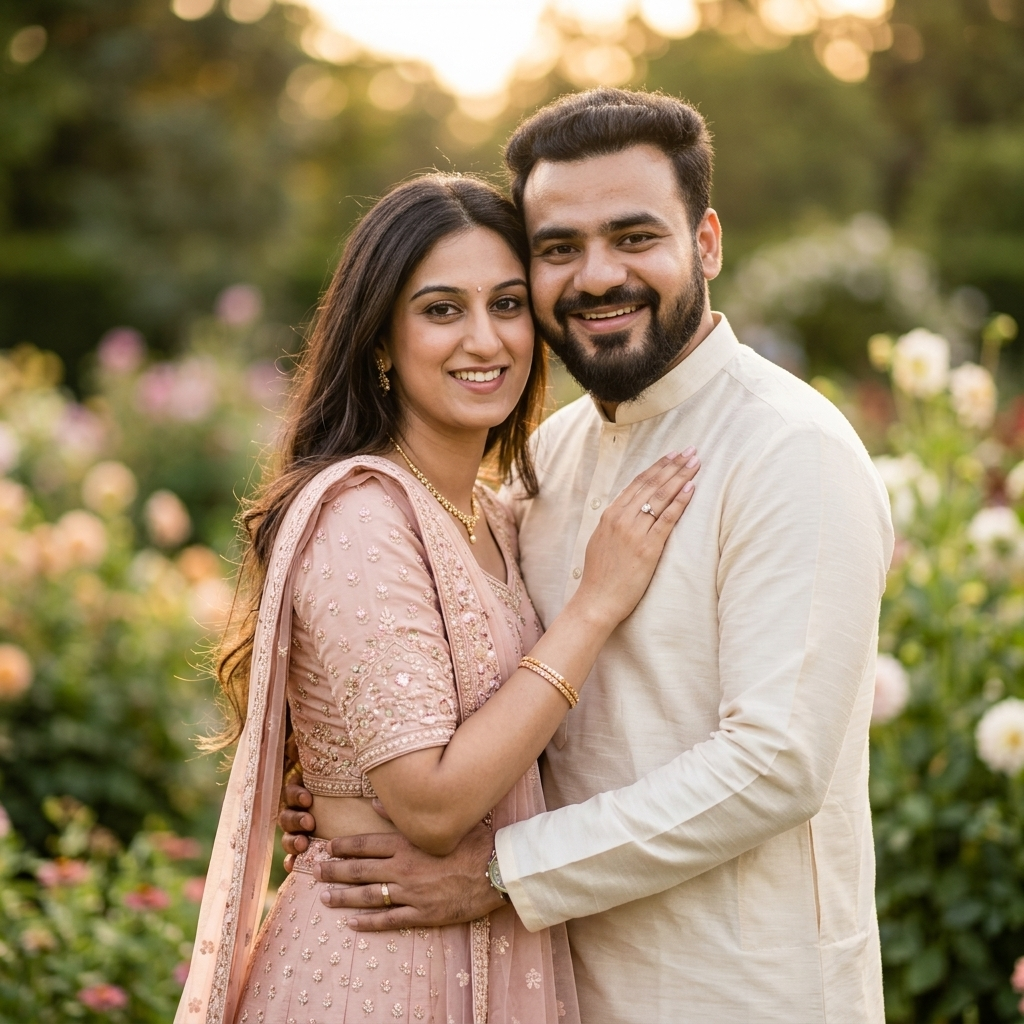
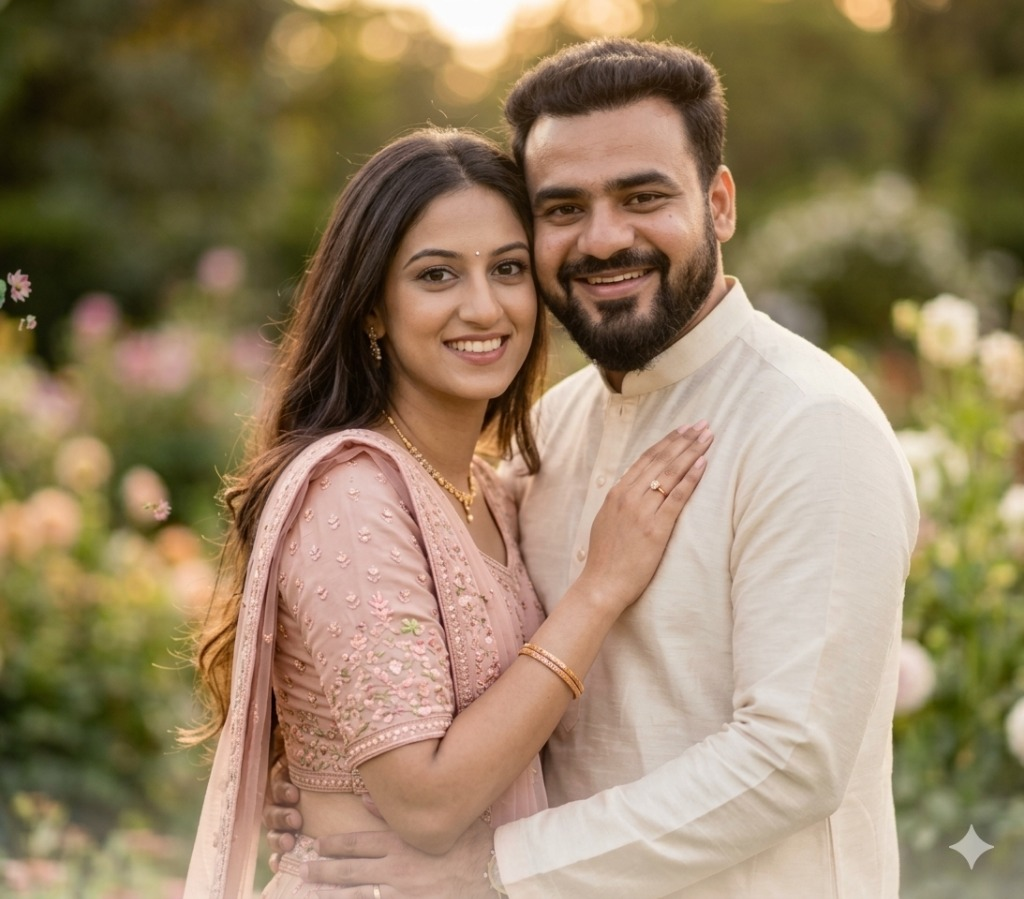
feat: update couple portrait, remove highlighted text from cover, and enhance scroll option

diff --git a/src/components/GateOpening.tsx b/src/components/GateOpening.tsx
@@ -1,7 +1,5 @@
 import { motion } from 'framer-motion';
 import { GaneshaBadge } from './GaneshaBadge';
-import { weddingData } from '../data/weddingData';
-
 const EASE_GATE = [0.83, 0, 0.17, 1] as const;
 
 interface GateOpeningProps {
@@ -10,7 +8,6 @@ interface GateOpeningProps {
 }
 
 export function GateOpening({ opened, onOpen }: GateOpeningProps) {
-  const { couple, invite, event } = weddingData;
 
   return (
     <motion.div
@@ -72,16 +69,7 @@ export function GateOpening({ opened, onOpen }: GateOpeningProps) {
           </p>
         </motion.div>
 
-        <motion.p
-          initial={{ opacity: 0, y: 12 }}
-          animate={{ opacity: 1, y: 0 }}
-          transition={{ duration: 1, delay: 0.3 }}
-          className="mt-7 text-[0.62rem] tracking-[0.45em] text-gold uppercase"
-        >
-          {invite.kicker}
-        </motion.p>
-
-        <div className="relative mt-6 flex h-40 w-40 items-center justify-center">
+        <div className="relative mt-7 sm:mt-9 flex h-40 w-40 items-center justify-center">
           <motion.span
             animate={{ rotate: 360 }}
             transition={{ duration: 46, repeat: Infinity, ease: 'linear' }}
@@ -114,32 +102,14 @@ export function GateOpening({ opened, onOpen }: GateOpeningProps) {
           </motion.div>
         </div>
 
-        <motion.h2
-          initial={{ opacity: 0, y: 16, letterSpacing: '0.5em' }}
-          animate={{ opacity: 1, y: 0, letterSpacing: '0.22em' }}
-          transition={{ duration: 1.5, delay: 0.6, ease: EASE_GATE }}
-          className="mt-9 text-lg font-light text-parchment uppercase sm:text-xl"
-        >
-          {couple.brideShort} &amp; {couple.groomShort}
-        </motion.h2>
-
-        <motion.p
-          initial={{ opacity: 0 }}
-          animate={{ opacity: 1 }}
-          transition={{ duration: 1, delay: 0.9 }}
-          className="mt-3 font-display text-base tracking-[0.3em] text-gold"
-        >
-          {event.dateLabel}
-        </motion.p>
-
         <motion.button
           type="button"
           onClick={onOpen}
           initial={{ opacity: 0, y: 14 }}
           animate={{ opacity: 1, y: 0 }}
-          transition={{ duration: 1, delay: 1.2 }}
+          transition={{ duration: 1, delay: 0.8 }}
           whileTap={{ scale: 0.96 }}
-          className="group relative mt-12 cursor-pointer overflow-hidden rounded-full border border-gold/70 px-9 py-3.5 text-[0.62rem] tracking-[0.35em] text-parchment uppercase transition-colors hover:bg-gold/15"
+          className="group relative mt-10 sm:mt-12 cursor-pointer overflow-hidden rounded-full border border-gold/70 px-9 py-3.5 text-[0.62rem] tracking-[0.35em] text-parchment uppercase transition-colors hover:bg-gold/15"
         >
           <motion.span
             animate={{ x: ['-120%', '120%'] }}

diff --git a/src/components/CountdownSection.tsx b/src/components/CountdownSection.tsx
@@ -44,23 +44,25 @@ export function CountdownSection() {
   const { event } = weddingData;
 
   return (
-    <section className="relative overflow-hidden bg-gradient-to-b from-royal-deep via-royal to-royal-deep px-5 py-20">
-      <div aria-hidden="true" className="jaali absolute inset-0 opacity-[0.12]" />
+    <section id="countdown" className="relative overflow-hidden bg-gradient-to-b from-mist to-mist-deep px-5 py-16">
+      <RevealOnScroll className="mx-auto max-w-md text-center">
+        <h2 className="font-display text-3xl tracking-[0.14em] text-royal uppercase">
+          Counting Down
+        </h2>
 
-      <RevealOnScroll className="relative mx-auto max-w-lg text-center">
-        <p className="text-[0.65rem] tracking-[0.4em] text-gold-soft uppercase">
-          {timeLeft?.done ? 'Today is the day' : 'Counting down to the engagement'}
+        <div className="gold-rule mx-auto mt-4 w-24" />
+
+        <p className="mt-4 font-display text-lg italic text-ink/70">
+          {timeLeft?.done ? 'Today is the special day!' : 'Until our special day'}
         </p>
-
-        <div className="gold-rule mx-auto mt-5 w-32" />
 
         <div className="mt-8 grid grid-cols-4 gap-2 sm:gap-3">
           {COUNTDOWN_ITEMS.map(({ key, label }) => (
             <div
               key={key}
-              className="relative overflow-hidden rounded-t-[2.2rem] border border-gold/60 bg-royal-deep/70 px-1 py-5 shadow-[0_10px_30px_-18px_black] backdrop-blur-[1px]"
+              className="relative overflow-hidden rounded-t-[2.2rem] rounded-b-xl border border-gold/70 bg-royal-deep px-1 py-5 shadow-[0_16px_36px_-18px_var(--color-royal-deep)]"
             >
-              <div className="pointer-events-none absolute inset-x-2 top-2 h-8 rounded-t-[1.8rem] border border-gold/25" />
+              <div className="pointer-events-none absolute inset-x-2 top-2 h-7 rounded-t-[1.8rem] border border-gold/30" />
               <AnimatePresence mode="popLayout" initial={false}>
                 <motion.span
                   key={`${key}-${timeLeft?.[key] ?? '-'}`}
@@ -73,14 +75,14 @@ export function CountdownSection() {
                   {timeLeft ? String(timeLeft[key]).padStart(2, '0') : '--'}
                 </motion.span>
               </AnimatePresence>
-              <span className="mt-2 block text-[0.55rem] tracking-[0.25em] text-gold-soft uppercase">
+              <span className="mt-2 block text-[0.55rem] tracking-[0.25em] text-gold uppercase">
                 {label}
               </span>
             </div>
           ))}
         </div>
 
-        <p className="mt-6 font-display text-lg italic text-parchment/85">
+        <p className="mt-6 font-display text-lg italic text-ink/75">
           {event.dayLabel}, {event.timeLabel}
         </p>
       </RevealOnScroll>

diff --git a/src/components/HeroSection.tsx b/src/components/HeroSection.tsx
@@ -1,5 +1,6 @@
 import { useRef } from 'react';
 import { motion, useScroll, useTransform } from 'framer-motion';
+import { ChevronDown } from 'lucide-react';
 import { useGate } from '../context/GateContext';
 import { weddingData } from '../data/weddingData';
 
@@ -13,6 +14,15 @@ export function HeroSection() {
   const scrollIndicatorOpacity = useTransform(scrollYProgress, [0, 0.6], [1, 0]);
   const isOpened = useGate();
   const { couple, invite, event, venue } = weddingData;
+
+  const handleScrollDown = () => {
+    const nextSection = document.getElementById('countdown');
+    if (nextSection) {
+      nextSection.scrollIntoView({ behavior: 'smooth' });
+    } else {
+      window.scrollBy({ top: window.innerHeight * 0.85, behavior: 'smooth' });
+    }
+  };
 
   return (
     <section
@@ -106,13 +116,28 @@ export function HeroSection() {
         style={{ opacity: scrollIndicatorOpacity }}
         className="relative z-20 mt-auto pb-6 text-center"
       >
-        <span className="text-[0.6rem] tracking-[0.3em] text-ink/60 uppercase">scroll</span>
-        <motion.div
-          animate={{ scaleY: [0.2, 1, 0.2] }}
-          style={{ originY: 0 }}
-          transition={{ duration: 2.2, repeat: Infinity, ease: 'easeInOut' }}
-          className="mx-auto mt-2 h-8 w-px bg-gold"
-        />
+        <motion.button
+          type="button"
+          onClick={handleScrollDown}
+          initial={{ opacity: 0, y: 12 }}
+          animate={isOpened ? { opacity: 1, y: 0 } : false}
+          transition={{ duration: 1, delay: 1.4 }}
+          whileHover={{ scale: 1.05 }}
+          whileTap={{ scale: 0.95 }}
+          aria-label="Scroll down to view invitation details"
+          className="group relative inline-flex cursor-pointer items-center gap-2.5 rounded-full border border-gold/70 bg-parchment/95 px-5 py-2.5 shadow-[0_4px_16px_rgba(34,18,24,0.12)] backdrop-blur-md transition-all duration-300 hover:border-gold hover:bg-royal hover:shadow-[0_8px_24px_rgba(34,18,24,0.22)] focus:outline-none"
+        >
+          <span className="text-[0.72rem] font-medium tracking-[0.22em] text-royal uppercase transition-colors group-hover:text-parchment sm:text-xs">
+            Scroll to explore
+          </span>
+          <motion.span
+            animate={{ y: [0, 4, 0] }}
+            transition={{ duration: 1.6, repeat: Infinity, ease: 'easeInOut' }}
+            className="flex size-5 items-center justify-center rounded-full bg-royal text-parchment transition-colors group-hover:bg-gold group-hover:text-royal-deep"
+          >
+            <ChevronDown className="size-3.5 stroke-[2.5]" />
+          </motion.span>
+        </motion.button>
       </motion.div>
     </section>
   );

diff --git a/src/components/EventDetailsSection.tsx b/src/components/EventDetailsSection.tsx
@@ -66,24 +66,15 @@ export function EventDetailsSection() {
             </p>
           )}
 
-          <div className="relative mt-8 flex flex-col gap-3">
+          <div className="relative mt-8 flex justify-center">
             <a
               href={getGoogleCalendarUrl()}
               target="_blank"
               rel="noreferrer"
-              className="group inline-flex items-center justify-center gap-2 rounded-full bg-royal px-6 py-3.5 text-[0.7rem] tracking-[0.24em] text-parchment uppercase transition-transform duration-200 active:scale-95"
+              className="group inline-flex items-center justify-center gap-2 rounded-full bg-royal px-8 py-3.5 text-[0.7rem] tracking-[0.24em] text-parchment uppercase shadow-[0_8px_20px_-8px_var(--color-royal-deep)] transition-transform duration-200 hover:bg-royal/90 active:scale-95"
             >
               <CalendarPlus className="size-4 transition-transform group-hover:rotate-6" />
               Add to calendar
-            </a>
-
-            <a
-              href={venue.url}
-              target="_blank"
-              rel="noreferrer"
-              className="rounded-full border border-gold/60 py-3 text-[0.65rem] tracking-[0.2em] text-ink/75 uppercase transition-colors hover:bg-gold/10"
-            >
-              Directions
             </a>
           </div>
         </div>

diff --git a/src/components/FamilyBlessingsSection.tsx b/src/components/FamilyBlessingsSection.tsx
@@ -8,11 +8,11 @@ export function FamilyBlessingsSection() {
     <section className="relative overflow-hidden bg-gradient-to-b from-royal-deep via-royal to-royal-deep px-5 py-16">
       <div aria-hidden="true" className="jaali absolute inset-0 opacity-[0.12]" />
 
-      <RevealOnScroll className="relative text-center">
-        <h2 className="font-display text-3xl tracking-[0.14em] text-parchment uppercase">
-          With the Blessings of
+      <RevealOnScroll className="relative text-center px-4">
+        <h2 className="mx-auto max-w-sm font-display text-2xl sm:text-3xl tracking-[0.14em] text-parchment uppercase leading-tight [text-wrap:balance]">
+          Together With Their Families
         </h2>
-        <p className="mt-2 font-display text-lg tracking-[0.18em] text-gold uppercase">
+        <p className="mt-2 font-display text-base sm:text-lg tracking-[0.16em] text-gold uppercase">
           Bhosale &amp; Sangle Family
         </p>
         <div className="gold-rule mx-auto mt-4 w-24" />

diff --git a/src/App.tsx b/src/App.tsx
@@ -3,7 +3,7 @@ import { ScrollProgress } from './components/ScrollProgress';
 import { FloatingPetals } from './components/FloatingPetals';
 import { AudioFloatingButton } from './components/AudioFloatingButton';
 import { HeroSection } from './components/HeroSection';
-import { SaveTheDateCard } from './components/SaveTheDateCard';
+import { CountdownSection } from './components/CountdownSection';
 import { FamilyBlessingsSection } from './components/FamilyBlessingsSection';
 import { EventDetailsSection } from './components/EventDetailsSection';
 import { VenueSection } from './components/VenueSection';
@@ -18,7 +18,7 @@ export default function App() {
         <FloatingPetals />
         <AudioFloatingButton />
         <HeroSection />
-        <SaveTheDateCard />
+        <CountdownSection />
         <FamilyBlessingsSection />
         <EventDetailsSection />
         <VenueSection />

diff --git a/src/components/BlessingSection.tsx b/src/components/BlessingSection.tsx
@@ -19,10 +19,6 @@ export function BlessingSection() {
           “{blessing.translation}”
         </p>
 
-        <p className="mt-4 text-[0.6rem] tracking-[0.3em] text-gold uppercase">
-          {blessing.source}
-        </p>
-
         <div className="gold-rule mx-auto mt-8 w-20" />
       </RevealOnScroll>
     </section>
